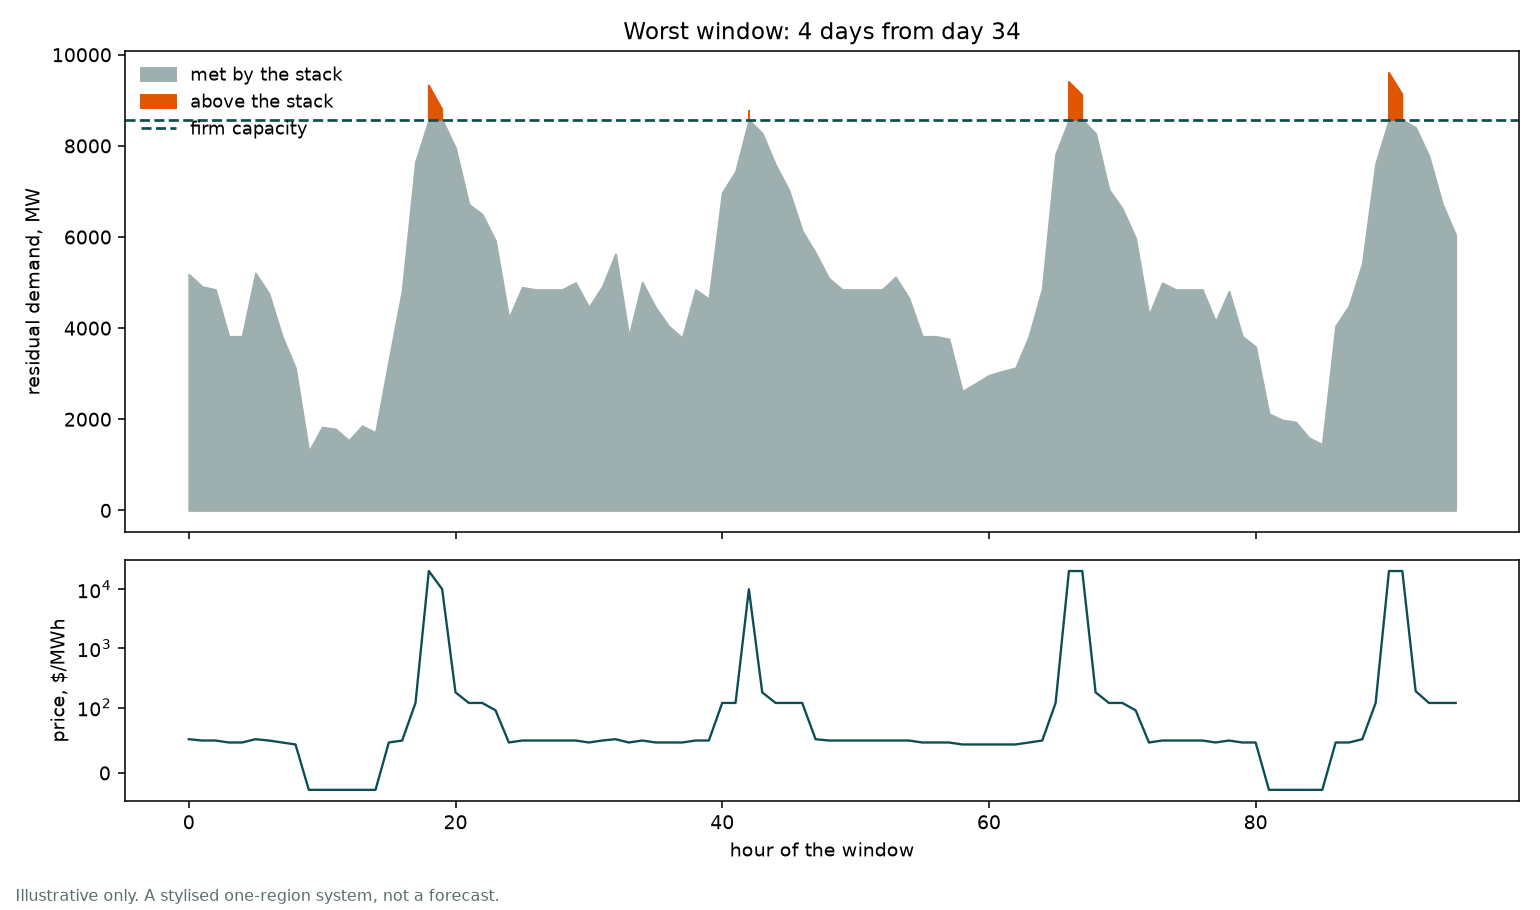
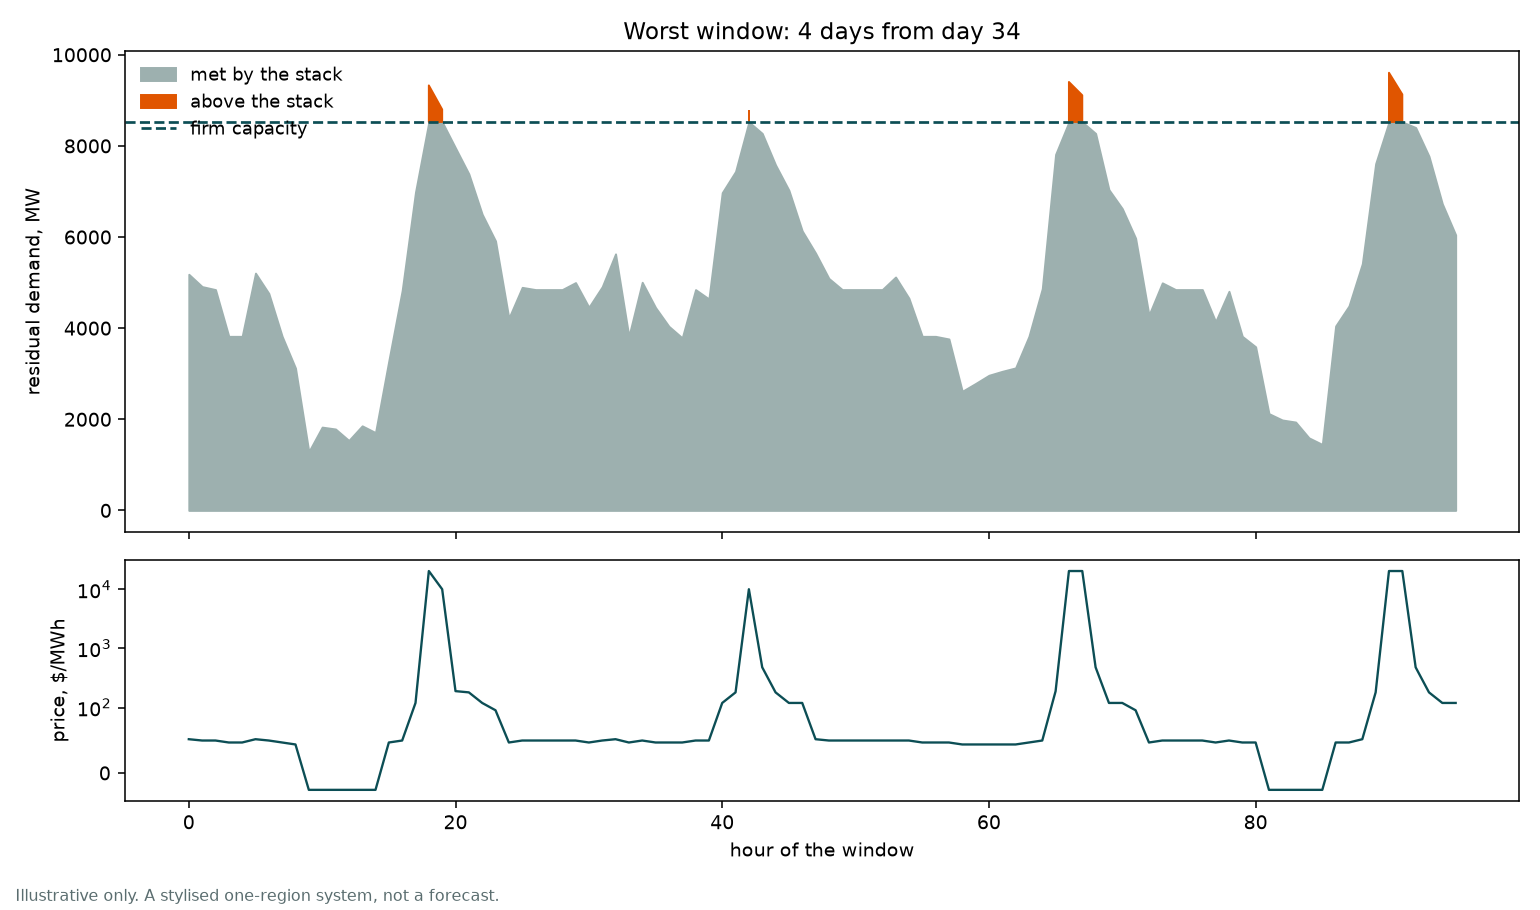
Fill the hole in the price duration curve where the cap product lives
Measuring the scarcity distribution to answer a question about cap pricing turned up
something worse than the question. Across all five shape-years, 43,800 hours, not one
settled between 190 and 7,500 dollars. The fleet stopped at gas peakers around 190,
the ladder's two cheapest tiers are 1.0 MW and 20.8 MW and are consumed inside the
same hour they are reached, so the price jumped straight from the last gas unit to the
7,500 tier. A 300 dollar cap contract was written against a band the model could not
produce.

Adds a stylised high-cost peaking tier: 500 MW at 480 dollars, standing for
distillate-fired aeroderivative units and other expensive peaking capacity rather than
any single station. The NEM carries plant of this kind and a fleet that stops at gas
OCGT does not.

That is firm capacity, so it moved the reliability contrast the workshop is built on
and the import link's coincidence derate is re-tuned against it, 2000 MW to 1450 MW.
The trade is deliberate and realistic: less interconnector firmness, more expensive
local peaking. The drought year now breaches the standard at 0.00498 per cent against
0.003, the next worst sits at 0.00156, and the gap between them is wider than before.

Twenty hours now settle in the band that had none. What did not change is the cap's
character: 99 per cent of its payout still comes from the 31 hours above 7,500 dollars.
That is correct economics rather than a defect, since a cap is insurance against
[…]

diff --git a/tests/test_settlement_netting.py b/tests/test_settlement_netting.py
@@ -1,0 +1,127 @@
+"""The netting invariants, on stub prices, before any other contract code.
+
+A contract moves money between two parties. It cannot create or destroy any. These
+tests run on invented price series rather than dispatched ones, so they check the
+settlement arithmetic itself and cannot be rescued by a plausible-looking market.
+"""
+
+import numpy as np
+import pytest
+
+from esem_sandbox.config import load_settings
+from esem_sandbox.core.contracts import CAP, SWAP, Contract, age, settle, settle_book
+
+
+@pytest.fixture(scope="module")
+def settings():
+    return load_settings()
+
+
+def _swap(**kw):
+    base = dict(kind=SWAP, holder="retailer", writer="gentailer",
+                strike_per_mwh=70.0, volume_mw=100.0, start_year=2026,
+                tenor_years=3, block="peak")
+    return Contract(**{**base, **kw})
+
+
+def _cap(**kw):
+    base = dict(kind=CAP, holder="retailer", writer="peaker",
+                strike_per_mwh=300.0, volume_mw=50.0, start_year=2026,
+                tenor_years=2, premium_per_mwh=12.0)
+    return Contract(**{**base, **kw})
+
+
+def test_a_contract_moves_money_it_does_not_make_any(settings):
+    price = np.random.default_rng(1).uniform(-100.0, 4000.0, 8760)
+    for contract in (_swap(), _cap()):
+        flows = settle(settings, contract, price, 2026)
+        assert sum(flows.values()) == pytest.approx(0.0, abs=1e-6), contract.kind
+
+
+def test_the_whole_book_nets_to_zero_every_year(settings):
+    rng = np.random.default_rng(2)
+    book = [_swap(), _swap(block="solar", holder="retailer_b", strike_per_mwh=40.0),
+            _cap(), _cap(holder="retailer_b", writer="merchant", volume_mw=25.0)]
+    for year in range(2026, 2031):
+        price = rng.uniform(-200.0, 15000.0, 8760)
+        flows = settle_book(settings, book, price, year)
+        assert sum(flows.values()) == pytest.approx(0.0, abs=1e-6), year
+
+
+def test_each_contract_settles_exactly_its_tenor(settings):
+    price = np.full(8760, 100.0)
+    contract = _swap(tenor_years=3, start_year=2026)
+    settled = [y for y in range(2020, 2040)
+               if settle(settings, contract, price, y)[contract.holder] != 0.0]
+    assert settled == [2026, 2027, 2028]
+
+
+def test_a_book_empties(settings):
+    book = [_swap(tenor_years=2), _cap(tenor_years=1)]
+    for year in range(2026, 2029):
+        book = age(book, year)
+    assert book == [], "contracts must leave the book when they expire"
+
+
+def test_a_swap_pays_the_difference_and_only_on_its_block(settings):
+    """A swap is a contract for difference on MW, over its block's hours alone."""
+    price = np.full(8760, 90.0)
+    contract = _swap(strike_per_mwh=70.0, volume_mw=100.0, block="peak")
+    hours = int(np.sum(np.arange(8760) % 24 >= 16) - np.sum(np.arange(8760) % 24 >= 22))
+    got = settle(settings, contract, price, 2026)[contract.holder]
+    assert got == pytest.approx((90.0 - 70.0) * 100.0 * hours)
+
+
+def test_a_swap_pays_the_writer_when_the_price_is_low(settings):
+    price = np.full(8760, 50.0)
+    flows = settle(settings, _swap(strike_per_mwh=70.0), price, 2026)
+    assert flows["retailer"] < 0 and flows["gentailer"] > 0
+
+
+def test_a_cap_is_settled_over_every_interval_not_a_sampled_curve(settings):
+    """One scarce hour is one hour.
+
+    Integrating over a 101-point sample of the sorted series makes that hour the top
+    point at one per cent weight, and pays it as though it lasted for tens of hours.
+    That defect cost the larger model a whole tick's cap book at fifteen to twenty
+    times cost basis.
+    """
+    price = np.full(8760, 50.0)
+    price[0] = 20300.0
+    contract = _cap(strike_per_mwh=300.0, volume_mw=1.0, premium_per_mwh=0.0001)
+    payout = settle(settings, contract, price, 2026)[contract.holder]
+    premium = 0.0001 * 1.0 * 8760
+    assert payout + premium == pytest.approx(20300.0 - 300.0)
+
+    sampled = np.sort(price)[::-1][np.linspace(0, 8759, 101).astype(int)]
+    sampled_payout = float(np.clip(sampled - 300.0, 0.0, None).mean() * 8760)
+    assert sampled_payout > 40 * (20300.0 - 300.0), (
+        "the sampled basis should overstate by more than fortyfold, which is why "
+        "settlement reads the full series"
+    )
+
+
+def test_a_cap_holder_pays_the_premium_even_when_it_never_pays_out(settings):
+    price = np.full(8760, 50.0)
+    contract = _cap(strike_per_mwh=300.0, volume_mw=50.0, premium_per_mwh=12.0)
+    flows = settle(settings, contract, price, 2026)
+    assert flows[contract.holder] == pytest.approx(-12.0 * 50.0 * 8760)
+    assert flows[contract.writer] == pytest.approx(+12.0 * 50.0 * 8760)
+
+
+def test_a_contract_out_of_force_settles_nothing(settings):
+    price = np.random.default_rng(3).uniform(0.0, 5000.0, 8760)
+    flows = settle(settings, _swap(start_year=2030), price, 2026)
+    assert all(v == 0.0 for v in flows.values())
+
+
+def test_nonsense_contracts_are_refused(settings):
+    with pytest.raises(ValueError, match="unknown contract kind"):
+        Contract(kind="future", holder="a", writer="b", strike_per_mwh=1.0,
+                 volume_mw=1.0, start_year=2026, tenor_years=1, block="peak")
+    with pytest.raises(ValueError, match="must name the block"):
+        _swap(block=None)
+    with pytest.raises(ValueError, match="gift"):
+        _cap(premium_per_mwh=0.0)
+    with pytest.raises(ValueError, match="tenor"):
+        _swap(tenor_years=0)

diff --git a/src/esem_sandbox/core/contracts.py b/src/esem_sandbox/core/contracts.py
@@ -1,0 +1,123 @@
+"""Contracts, and the settlement that moves money between the parties to them.
+
+Two products, which is enough to carry the whole argument:
+
+A **swap** fixes a price for a block of hours. The holder receives the difference
+between the spot price and the strike, so a retailer holding swaps is insulated from
+high prices and gives up the gains from low ones. It is a contract for difference on
+MW, not an obligation to deliver energy.
+
+A **cap** pays the holder whatever the spot price exceeds the strike, and nothing
+when it does not, in exchange for a premium paid on every hour of the leg. It is
+insurance against scarcity, and it is what a peaker sells when it cannot sell energy.
+
+Settlement is deliberately blunt about one thing: a cap's payout is integrated over
+every settled interval of the period. Sampling the price series and integrating over
+the samples is how a single scarce interval comes to be paid as though it lasted for
+tens of hours, which is the defect this model's larger sibling was carrying when this
+one was written.
+"""
+
+from __future__ import annotations
+
+from dataclasses import dataclass
+
+import numpy as np
+
+from ..config import Settings
+from .report import block_mask, quarter_of_hour
+
+SWAP = "swap"
+CAP = "cap"
+
+
+@dataclass(frozen=True)
+class Contract:
+    """One contract between two parties.
+
+    ``volume_mw`` is the contracted quantity. ``block`` names the time-of-day block a
+    swap applies to; a cap applies to every hour. ``premium_per_mwh`` is paid by the
+    holder on every hour of the leg and is zero for a swap, whose price is its strike.
+    """
+
+    kind: str
+    holder: str
+    writer: str
+    strike_per_mwh: float
+    volume_mw: float
+    start_year: int
+    tenor_years: int
+    block: str | None = None
+    premium_per_mwh: float = 0.0
+    quarter: int | None = None
+
+    def __post_init__(self) -> None:
+        if self.kind not in (SWAP, CAP):
+            raise ValueError(f"unknown contract kind: {self.kind}")
+        if self.kind == SWAP and self.block is None:
+            raise ValueError("a swap must name the block it applies to")
+        if self.kind == CAP and self.premium_per_mwh <= 0:
+            raise ValueError("a cap without a premium is a gift, not a contract")
+        if self.tenor_years < 1:
+            raise ValueError("tenor must be at least one year")
+        if self.volume_mw < 0:
+            raise ValueError("volume cannot be negative")
+
+    def in_force(self, year: int) -> bool:
+        """Contracts struck at t first settle at t+1, so delivery starts at start_year."""
+        return self.start_year <= year < self.start_year + self.tenor_years
+
+    def delivery_years(self) -> range:
+        return range(self.start_year, self.start_year + self.tenor_years)
+
+
+def hours_of(settings: Settings, contract: Contract, n_hours: int) -> np.ndarray:
+    """The hours this contract settles over, as a boolean mask."""
+    mask = np.ones(n_hours, dtype=bool)
+    if contract.block is not None:
+        mask &= block_mask(settings, contract.block, n_hours)
+    if contract.quarter is not None:
+        mask &= quarter_of_hour(n_hours) == contract.quarter
+    return mask
+
+
+def settle(settings: Settings, contract: Contract, price: np.ndarray,
+           year: int) -> dict[str, float]:
+    """One year of one contract, as a cashflow per party.
+
+    Returns a mapping of party to dollars, positive being money received. The two
+    entries sum to zero by construction: a contract moves money, it does not make
+    any. Settlement over the full hourly series, never a sampled curve.
+    """
+    if not contract.in_force(year):
+        return {contract.holder: 0.0, contract.writer: 0.0}
+
+    mask = hours_of(settings, contract, len(price))
+    hours = price[mask]
+    if contract.kind == SWAP:
+        to_holder = float(np.sum(hours - contract.strike_per_mwh) * contract.volume_mw)
+    else:
+        payout = float(np.sum(np.clip(hours - contract.strike_per_mwh, 0.0, None))
+                       * contract.volume_mw)
+        premium = contract.premium_per_mwh * contract.volume_mw * float(mask.sum())
+        to_holder = payout - premium
+    return {contract.holder: to_holder, contract.writer: -to_holder}
+
+
+def settle_book(settings: Settings, book: list[Contract], price: np.ndarray,
+                year: int) -> dict[str, float]:
+    """Every contract in force this year, netted by party."""
+    out: dict[str, float] = {}
+    for contract in book:
+        for party, amount in settle(settings, contract, price, year).items():
+            out[party] = out.get(party, 0.0) + amount
+    return out
+
+
+def age(book: list[Contract], year: int) -> list[Contract]:
+    """The contracts still in force after ``year`` has settled.
+
+    One owner per object: contracts are dropped from the book when they expire rather
+    than being marked expired and kept, so a book that is empty is empty.
+    """
+    return [c for c in book if c.in_force(year + 1)]

diff --git a/KNOWN_LIMITATIONS.md b/KNOWN_LIMITATIONS.md
@@ -36,19 +36,25 @@ against those levels. Because the price is monotone in residual demand, a store 
 shaves the peak and fills the trough is consistent with the price it produces by
 construction, and the inversion becomes impossible rather than merely small.
 
-## The two cheapest demand-response tiers never set a price
+## A cap contract here is almost purely a tail instrument
 
-The ladder's first two tiers are 1.0 MW at $300/MWh and 20.8 MW at $500/MWh,
-transcribed as increments from the published demand-side participation table. They
-are so small against a 12 GW system that any hour reaching them is short by far more
-than 21.8 MW, so both are exhausted within the same hour and the price lands on the
-$7,500 tier. Measured across all five shape-years, no hour ever settles between $190
-and $7,500.
+The ladder's two cheapest tiers are 1.0 MW at $300/MWh and 20.8 MW at $500/MWh,
+transcribed as increments from the published demand-side participation table. They are
+so small against a 12 GW system that any hour reaching them is short by far more, so
+both are exhausted inside the same hour and the price lands on the tier above. Neither
+ever sets a price.
 
-This is faithful to the source rather than wrong, but it has a consequence worth
-saying out loud: a $300 cap contract, which is the strike the design uses, is never
-struck at a price the ladder itself produces. The gap in the price duration curve is
-real and a workshop exercise on cap payouts should expect it.
+The fleet originally stopped at gas peakers around $190/MWh, which left **no hour able
+to settle anywhere between $190 and $7,500**: the price duration curve had a hole
+exactly where a $300 cap contract lives. A stylised high-cost peaking tier, 500 MW at
+$480/MWh, now fills it, and hours do settle in the band.
+
+What that did not change is the cap's character. Of the $93,400 per MW-year a $300 cap
+pays across the five shape-years, 99 per cent still comes from the 31 hours above
+$7,500. That is not a defect. A cap is insurance against extremes and its value in the
+real market is likewise concentrated in a handful of intervals. But a workshop exercise
+should expect the payout to be lumpy across weather years rather than smooth: the five
+shape-years pay $29,700, $49,700, $76,300, $93,800 and $208,500.
 
 ## What the simplification costs elsewhere
 
